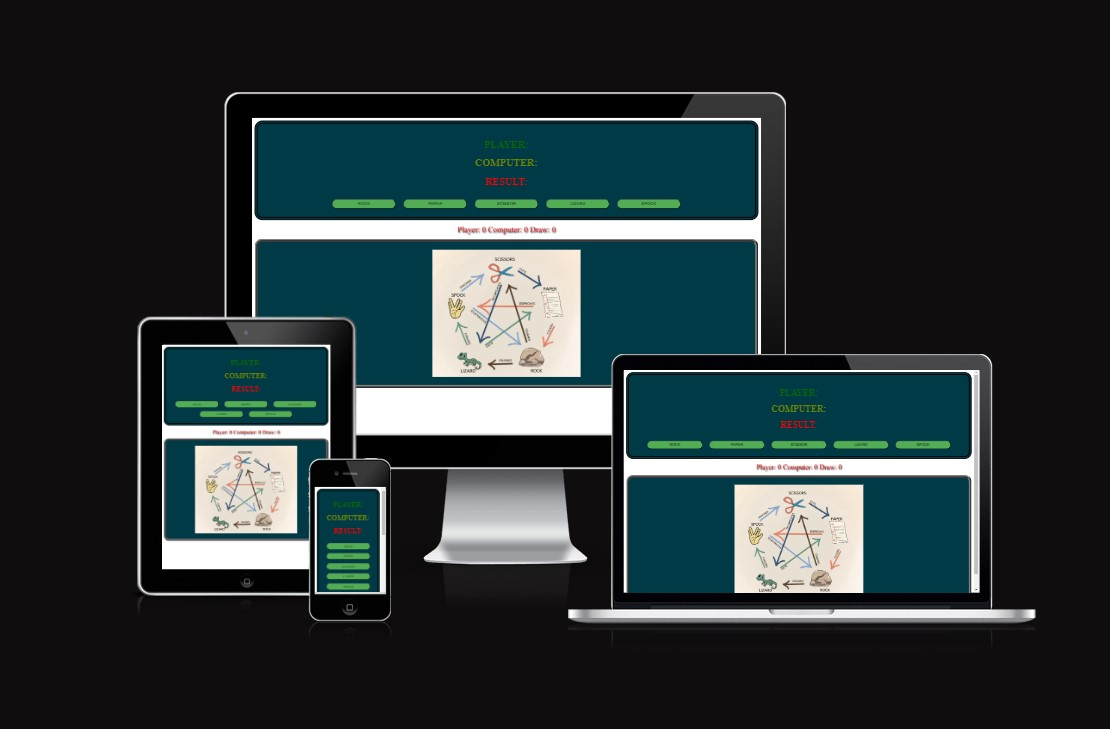
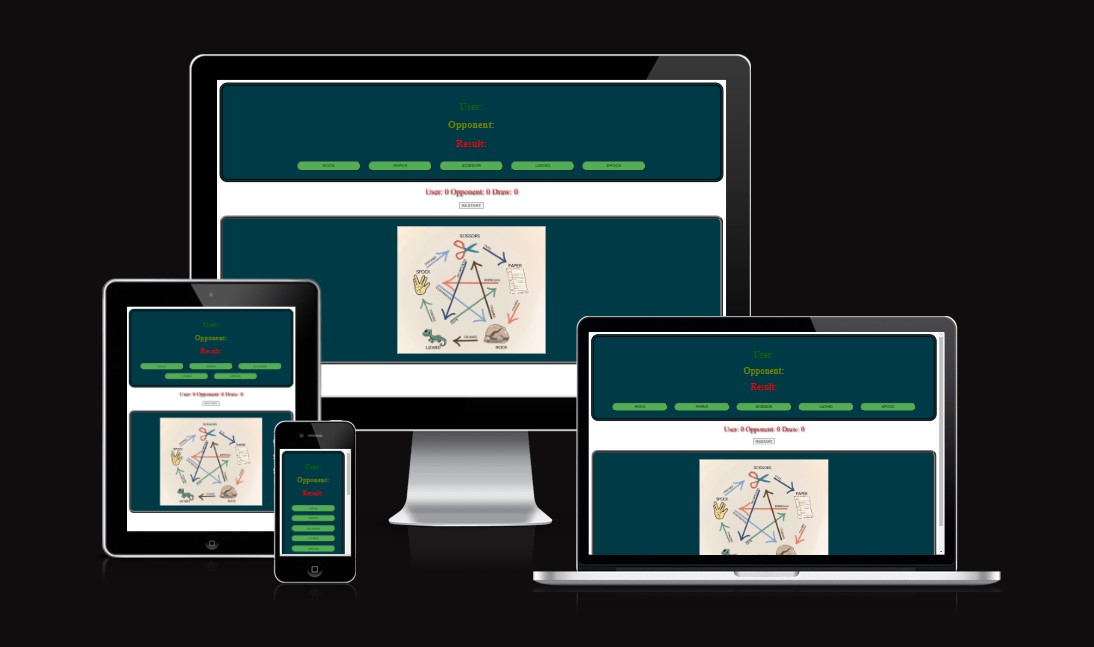
update readme and update rules image

Changed region(s): [[0.0932, 0.0618, 0.9324, 0.9274]]

diff --git a/index.html b/index.html
@@ -37,7 +37,7 @@
 
     <!-- Picture with the rules -->
     <div id="imageContainer">
-      <img id="GameRules" src="assets/images/rpslk.jpg" alt="Game rules">
+      <img id="GameRules" src="assets/images/rules.jpg" alt="Game rules">
     </div>
 
     <!-- Link to javascript -->

diff --git a/README.md b/README.md
@@ -19,11 +19,13 @@ You play against the computer, which picks a random option every time. The resul
 
 ## Features
 
-The game has three main components. One area is designated for the game, where the player chooses one option (rock, paper, scissors, lizard, spock). Once the player has chosen an option, the computer immediately selects a random one as well. Based on the rules, the game can end in a win, loss, or draw.
+- The game has four main components. One area is designated for the game, where the player chooses one option (rock, paper, scissors, lizard, spock). Once the player has chosen an option, the computer immediately selects a random one as well. Based on the rules, the game can end in a win, loss, or draw.
 
-The second component is to keep track of the results. The player's, computer's, and draw scores are displayed and updated after every turn.
+- The second component is to keep track of the results. The player's, computer's, and draw scores are displayed and updated after every turn.
 
-The third component is a picture showing the rules of the game. It's easy to understand, with suitable icons for all ages.
+- The third component is a picture showing the rules of the game. It's easy to understand, with suitable icons for all ages.
+
+- The fourth component let's the player restart the game.
 
 ### Existing Features
 
@@ -38,6 +40,12 @@ The third component is a picture showing the rules of the game. It's easy to und
   - This section shows the current score of the game.
 
 ![Rules](assets/images/2ndscore.jpg)
+
+- __Restart Section__
+
+  - This section let's the player restart the game.
+
+![Rules](assets/images/2ndrestart.jpg)
 
 - __Rule Section__
 
@@ -54,16 +62,16 @@ The game works on different platforms and is adaptive and responsive.
 ## Validator Testing
 
 - HTML
-  - No errors were returned when passing through the official [W3C Markup Validation](https://validator.w3.org/) ![Jigsaw validator](assets/images/2ndw3.jpg)
+  - No errors were returned when passing through the official [W3 Markup Validation](https://validator.w3.org/) ![Jigsaw validator](assets/images/2ndw3.jpg)
 - CSS
   - No errors were found when passing through the official [W3C CSS Validation](https://jigsaw.w3.org/css-validator/) ![W3C validator](assets/images/2ndw3c.jpg)
 - JavaScript
   - No errors were found when passing through the official [JsHint](https://jshint.com/) ![Jshint validator](assets/images/2ndjshint.jpg)
     - The following metrics were returned:
-    - There are 6 functions in this file.
+    - There are 7 functions in this file.
     - Function with the largest signature takes 1 arguments, while the median is 1.
-    - Largest function has 7 statements in it, while the median is 4.5.
-    - The most complex function has a cyclomatic complexity value of 17 while the median is 2.5.
+    - Largest function has 7 statements in it, while the median is 6.
+    - The most complex function has a cyclomatic complexity value of 17 while the median is 1.
 - Accessibility
   - I confirmed that colors and fonts chosen are easy to read and accessible by running it through lighthouse in devtools.
 
@@ -98,14 +106,14 @@ The code that I've used in this project is my own and inspired from tutorials an
 ## Content
 
 - The main game area and function is inspired from [Bro Code](https://www.youtube.com/watch?v=n1_vHArDBRA&ab_channel=BroCode), [JavaScriptInfo](https://javascript.info) and [W3Schools](https://www.w3schools.com)
-- The winner area and code for lizard and spock is inspired from [Coding with Jon](https://www.youtube.com/watch?v=Nb1YRElHVLc&t=3s&ab_channel=CodingwithJohn),  [Bro Code](https://www.youtube.com/watch?v=n1_vHArDBRA&ab_channel=BroCode) and [W3Schools](https://www.w3schools.com)
-- The score area is inspired from [W3Schools](https://www.w3schools.com) and [JavaScriptInfo](https://javascript.info)
-- The style and coloring code is inspired from [Bro Code](https://www.youtube.com/watch?v=n1_vHArDBRA&ab_channel=BroCode) and [W3Schools](https://www.w3schools.com)
-- Picture with instructions on how to play the game comes from [Momonhg](https://www.momonhg.com/blog/rock-paper-scissors-lizard-and-spock-game)
+- The winner function and code for lizard and spock is inspired from [Coding with Jon](https://www.youtube.com/watch?v=Nb1YRElHVLc&t=3s&ab_channel=CodingwithJohn),  [Bro Code](https://www.youtube.com/watch?v=n1_vHArDBRA&ab_channel=BroCode) and [W3Schools](https://www.w3schools.com)
+- The score and restart function is inspired from [W3Schools](https://www.w3schools.com) and [JavaScriptInfo](https://javascript.info)
+- The style and coloring is inspired from [Bro Code](https://www.youtube.com/watch?v=n1_vHArDBRA&ab_channel=BroCode) and [W3Schools](https://www.w3schools.com)
+- Picture with instructions on how to play the game comes from a blog made by [Akshay Bahadur](https://akshaybahadur.medium.com/rock-paper-scissors-lizard-spock-%EF%B8%8F-514f0a2b8c1a)
 
 ### Media
 
-- The photos used in this game comes from a blog by [Momonhg](<https://www.momonhg.com/blog/rock-paper-scissors-lizard-and-spock-game>)
+- The photos used in this game comes from a blog by [Akshay Bahadur](https://akshaybahadur.medium.com/rock-paper-scissors-lizard-spock-%EF%B8%8F-514f0a2b8c1a)
 
 ## Acknowledgement
 
